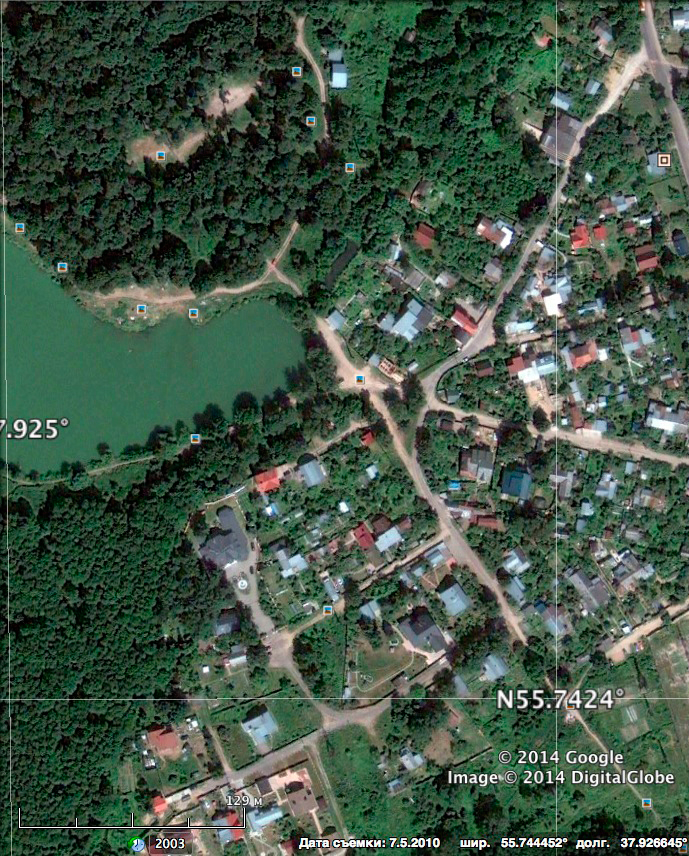
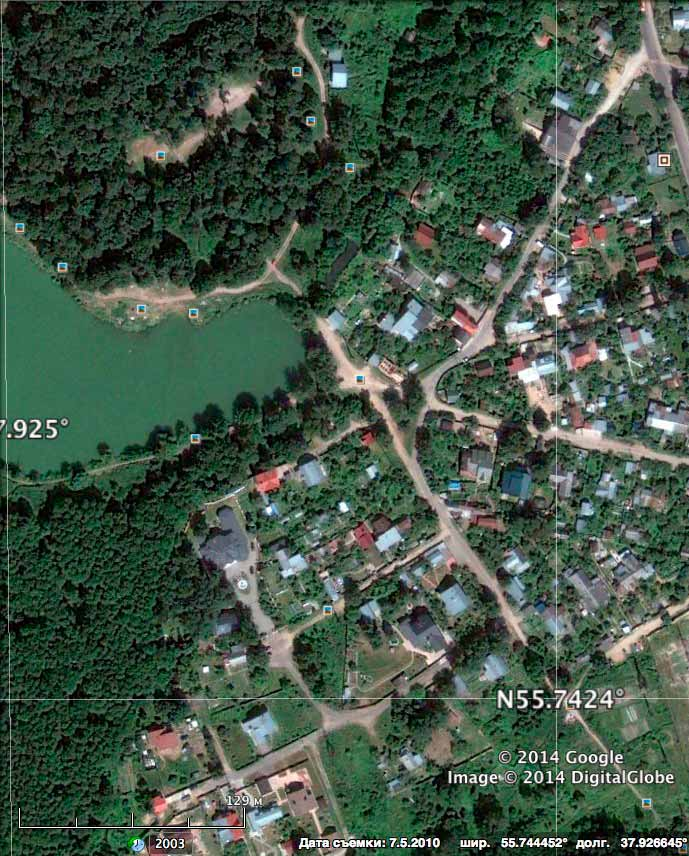
new map

diff --git a/app/js/controllers.js b/app/js/controllers.js
@@ -10,6 +10,8 @@ angular.module('myApp.controllers', [])
             return Math.random().toString(36).substr(2);
         };
 
+
+
         $scope.loginUser = function (name, character) {
             switch (character) {
             case "zombie_boy":
@@ -48,7 +50,7 @@ angular.module('myApp.controllers', [])
         $scope.firebaseConnect = new Firebase(FIREBASE_PARAMS.PATH);
 
         $scope.mapScale = MAP_PARAMS.SCALE;
-        $scope.CanvasWidth = 658;
+        $scope.CanvasWidth = 689;
         $scope.CanvasHeight = 856;
 
 //      dot size
@@ -62,10 +64,10 @@ angular.module('myApp.controllers', [])
         $scope.playerInit = function () {
             $rootScope.token = localStorageService.get('token');
             var dataRef = new Firebase(FIREBASE_PARAMS.PATH + $rootScope.token);
-            dataRef.on('value', function(snapshot) {
+            dataRef.on('value', function (snapshot) {
                 $rootScope.character = snapshot.val();
             });
-            console.log('player is inited')
+            console.log('player is inited');
         }
 
         $scope.getAllData = function () {

diff --git a/app/js/directives.js b/app/js/directives.js
@@ -35,10 +35,11 @@ angular.module('myApp.directives', [])
                     var x,
                         y;
 //                    ctx.clearRect(0, 0, $scope.CanvasWidth, $scope.CanvasHeight);
-                    y = Math.abs(lat - MAP_PARAMS.LAT0) * $scope.y_coef + 12;
-                    x = Math.abs(lon - MAP_PARAMS.LON0) * $scope.x_coef + 12;
-                    $scope.ctx.fillStyle = "#FF0000";
-                    console.log(x + " " + y);
+                    y = Math.abs(lat - MAP_PARAMS.LAT0) * $scope.y_coef;
+                    x = Math.abs(lon - MAP_PARAMS.LON0) * $scope.x_coef;
+                    $scope.ctx.fillStyle = Math.floor(Math.random() * 16777215).toString(16);
+//                    console.log(x + " " + y);
+//                    console.log('point is drown')
                     $scope.ctx.fillRect(x, y, $scope.dotScale, $scope.dotScale);
                 }; //end of drawPoint
                 $scope.ctx.fillStyle = "#FF0000";

diff --git a/app/js/services.js b/app/js/services.js
@@ -8,14 +8,14 @@ angular.module('myApp.services', [])
     .constant(
         'MAP_PARAMS',
         {
-            'WIDTH': 635,
-            'HEIGHT': 810,
+            'WIDTH': 556,
+            'HEIGHT': 697,
             'SCALE': 1120,
-            'SRC': 'img/zheleznodorozhny.jpg',
-            'LAT0': 55.753200,
-            'LON0': 38.004990,
-            'LAT1': 55.746016,
-            'LON1': 38.015001
+            'SRC': 'img/map2.jpg',
+            'LAT0': 55.745989,
+            'LON0': 37.924999,
+            'LAT1': 55.742361,
+            'LON1': 37.929990
         }
     )
     .constant(

diff --git a/app/index.html b/app/index.html
@@ -7,6 +7,7 @@
   <link rel="stylesheet" href="css/app.css"/>
   <link rel="stylesheet" href="css/login.css"/>
 </head>
+
 <body>
 
   <!--<ul class="menu">-->
